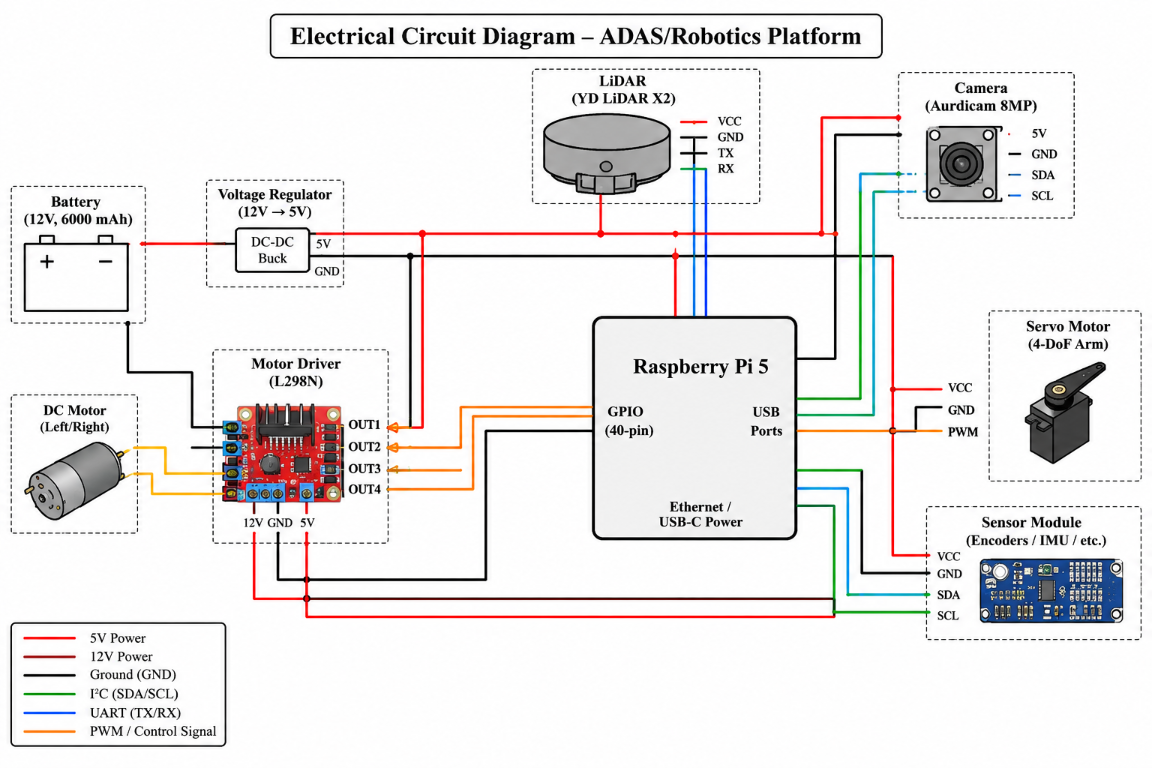
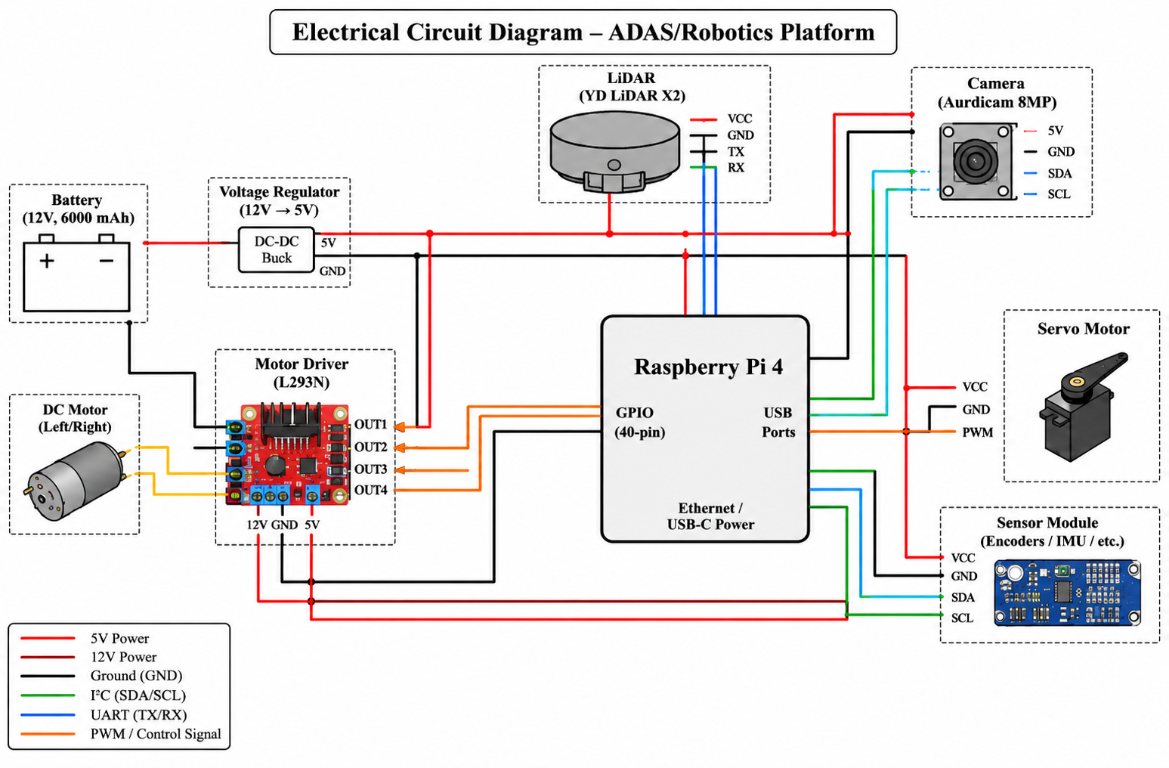
Update electrical diagram reference

diff --git a/docs/assets/README.md b/docs/assets/README.md
@@ -2,8 +2,8 @@
 
 Project images and design references.
 
-- `electrical-circuit-diagram.png` — supplied wiring reference; it labels a Pi 4,
-  while the component list specifies a Pi 4. Verify before wiring.
+- `electrical-circuit-diagram.png` — visual reference for the Raspberry Pi 4
+  hardware layout and its connected components.
 - `prototype/` — supplied CAD assembly renders and vehicle photos.
 - `../cad/adas-chassis-assembly.step` — validated 42-solid mechanical assembly.
 - `../cad/adas-chassis-assembly.stl` — tessellated mesh export of the assembly.
